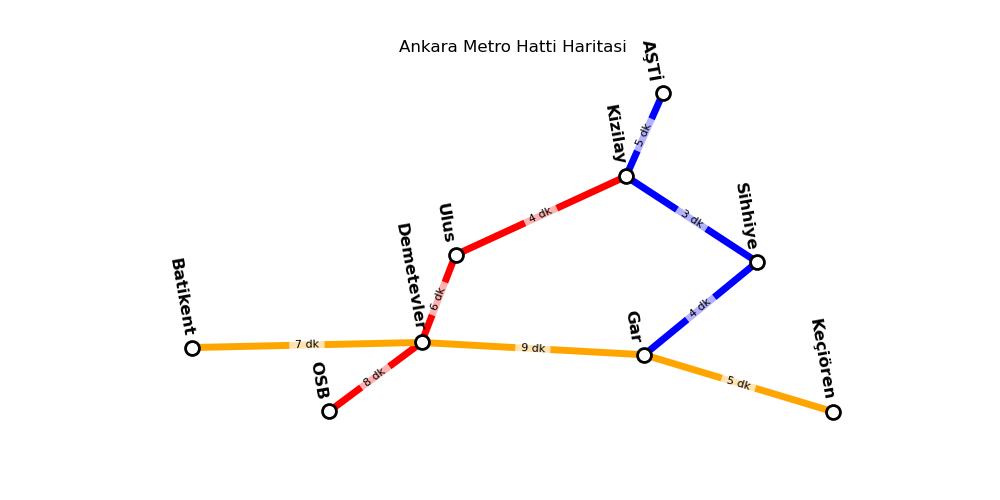
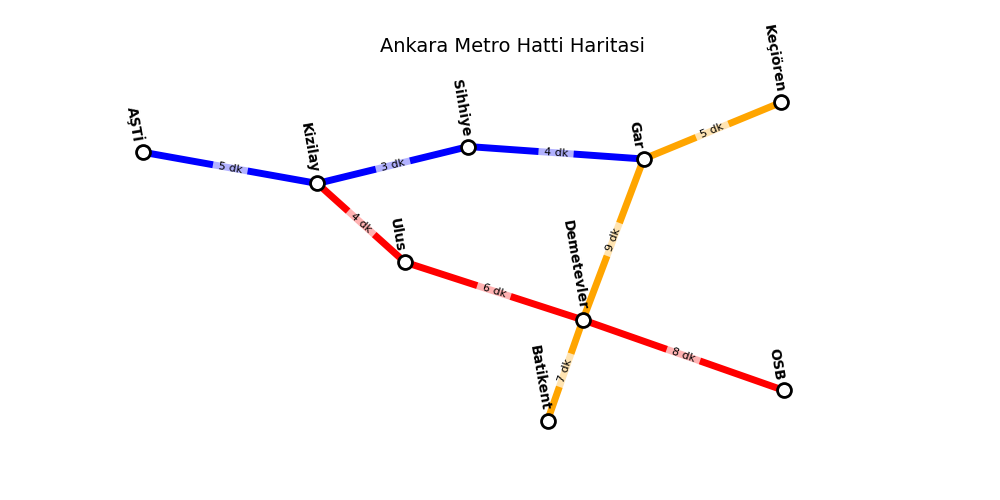
Refine metro simulation edge weights and improve layout visualizations

diff --git a/EmreSarac_MetroSimulation.py b/EmreSarac_MetroSimulation.py
@@ -123,19 +123,22 @@ class MetroAgi:
         }
 
         # Ortak istasyonlari belirleme
-        aktarma_noktalari = set()
         for istasyon in self.istasyonlar.values():
             if istasyon.ad not in G:
                 G.add_node(istasyon.ad, label=istasyon.ad, hat=istasyon.hat)
+
+        tum_sureler = [sure for istasyon in self.istasyonlar.values() for _, sure in istasyon.komsular]
+        min_sure, max_sure = min(tum_sureler), max(tum_sureler)
 
         # Bağlantilari ekleme
         for istasyon in self.istasyonlar.values():
             for komsu, sure in istasyon.komsular:
                 if istasyon.hat == komsu.hat:
-                    G.add_edge(istasyon.ad, komsu.ad, weight=sure, color=hat_renkleri[istasyon.hat])
+                    weight = 1 + (9 - (sure - min_sure) / (max_sure - min_sure) * 8) #Ağırlık normalizasyonu
+                    G.add_edge(istasyon.ad, komsu.ad, weight=weight, original_sure=sure, color=hat_renkleri[istasyon.hat])
 
         # Grafik çizim ayarlari
-        pos = nx.spring_layout(G, seed=23, k=0.1, iterations=50)
+        pos = nx.spring_layout(G, seed=22, k=0.32, iterations=100)
         edge_colors = [G[u][v]["color"] for u, v in G.edges]
 
         # Çizim
@@ -144,7 +147,7 @@ class MetroAgi:
         nx.draw_networkx_edges(G, pos, edge_color=edge_colors, width=5)
         nx.draw_networkx_nodes(G, pos, node_size=100, node_color="white", alpha=1, linewidths=2, edgecolors="black")
 
-        edge_labels = {(u, v): f"{G[u][v]['weight']} dk" for u, v in G.edges}
+        edge_labels = {(u, v): f"{G[u][v]['original_sure']} dk" for u, v in G.edges}
         nx.draw_networkx_edge_labels(G, pos, edge_labels=edge_labels, font_size=8, font_color="black", bbox=dict(facecolor="white", edgecolor="none", alpha=0.7))
 
         # Pozisyonlari biraz yukariya taşimak için pos koordinatlarini değiştirelim
@@ -152,7 +155,7 @@ class MetroAgi:
         adjusted_pos = {node: (x - 0.02, y + 0.05) for node, (x, y) in pos.items()}
         for node, label in labels.items():
             x, y = adjusted_pos[node]
-            plt.text(x, y, label, fontsize=12, fontweight="bold", rotation=-80, horizontalalignment="center", verticalalignment="bottom")
+            plt.text(x, y, label, fontsize=10, fontweight="bold", rotation=-80, horizontalalignment="center", verticalalignment="bottom")
 
         # Başlik ve gösterim
         plt.title("Ankara Metro Hatti Haritasi", fontsize=12)
